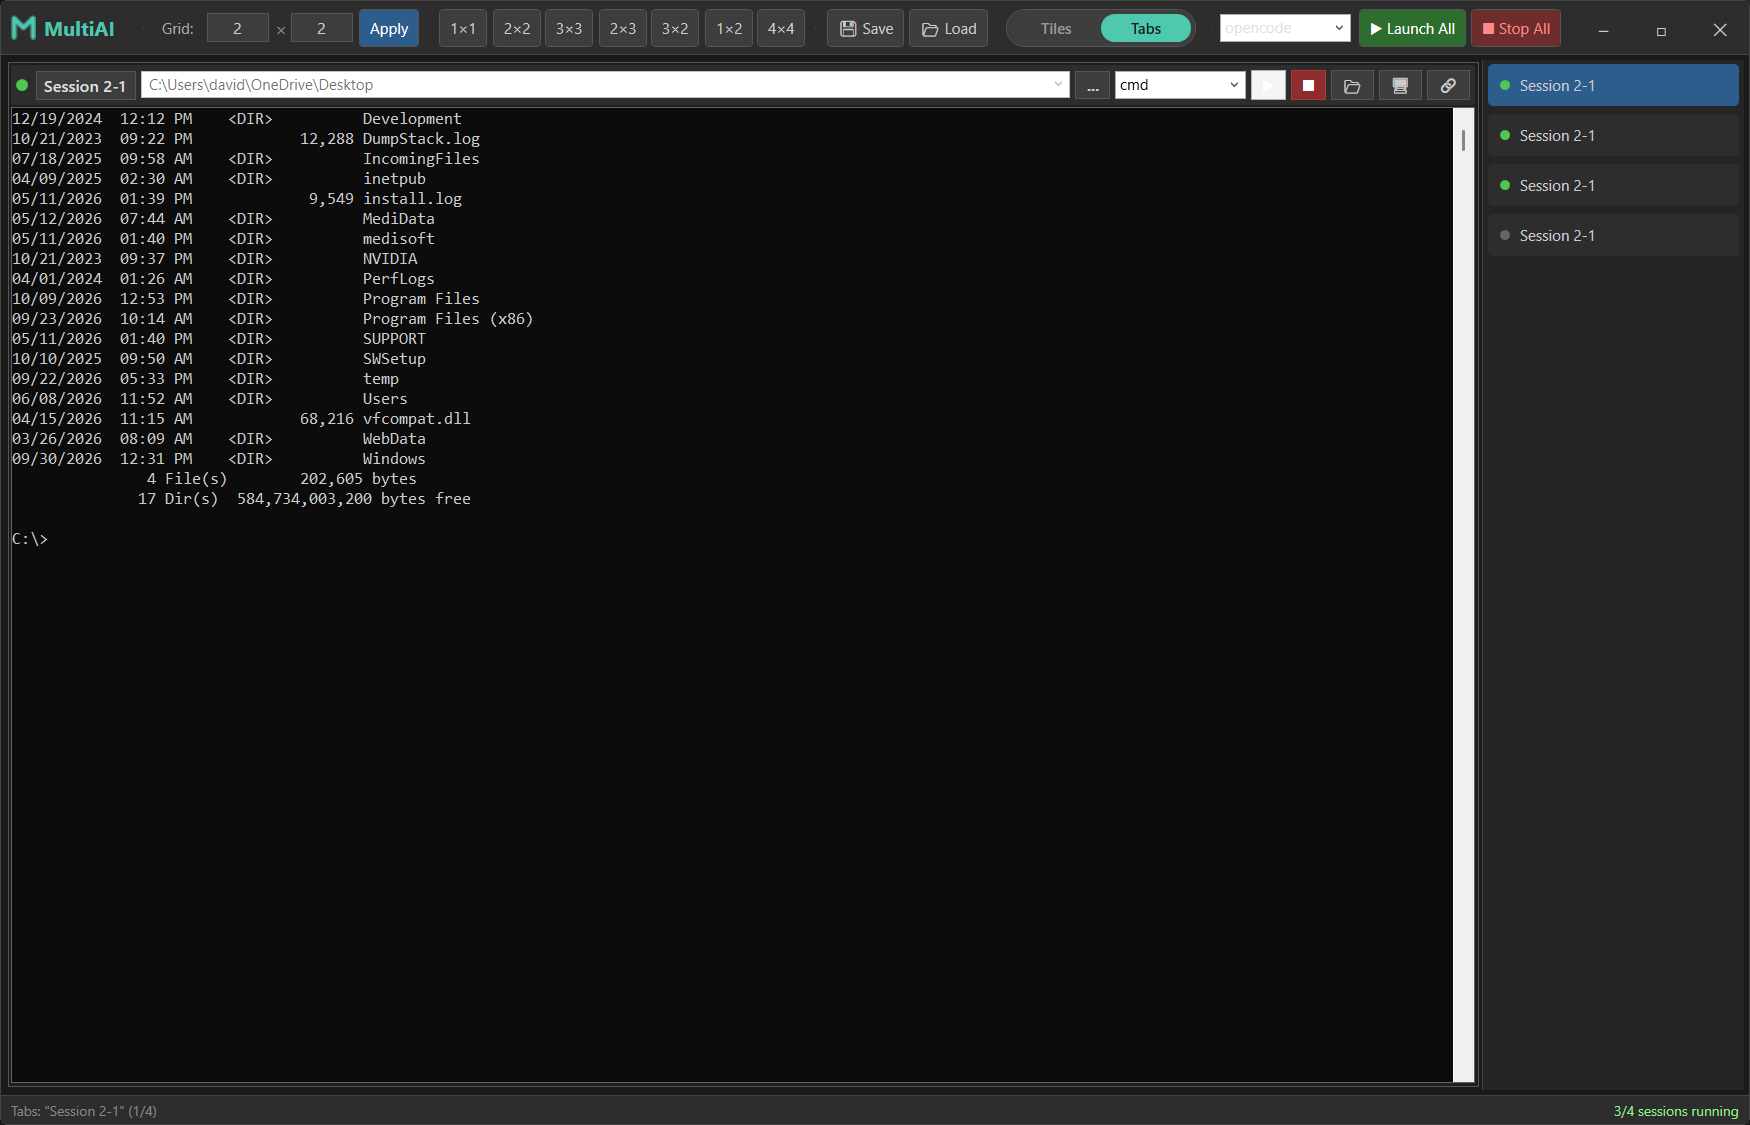
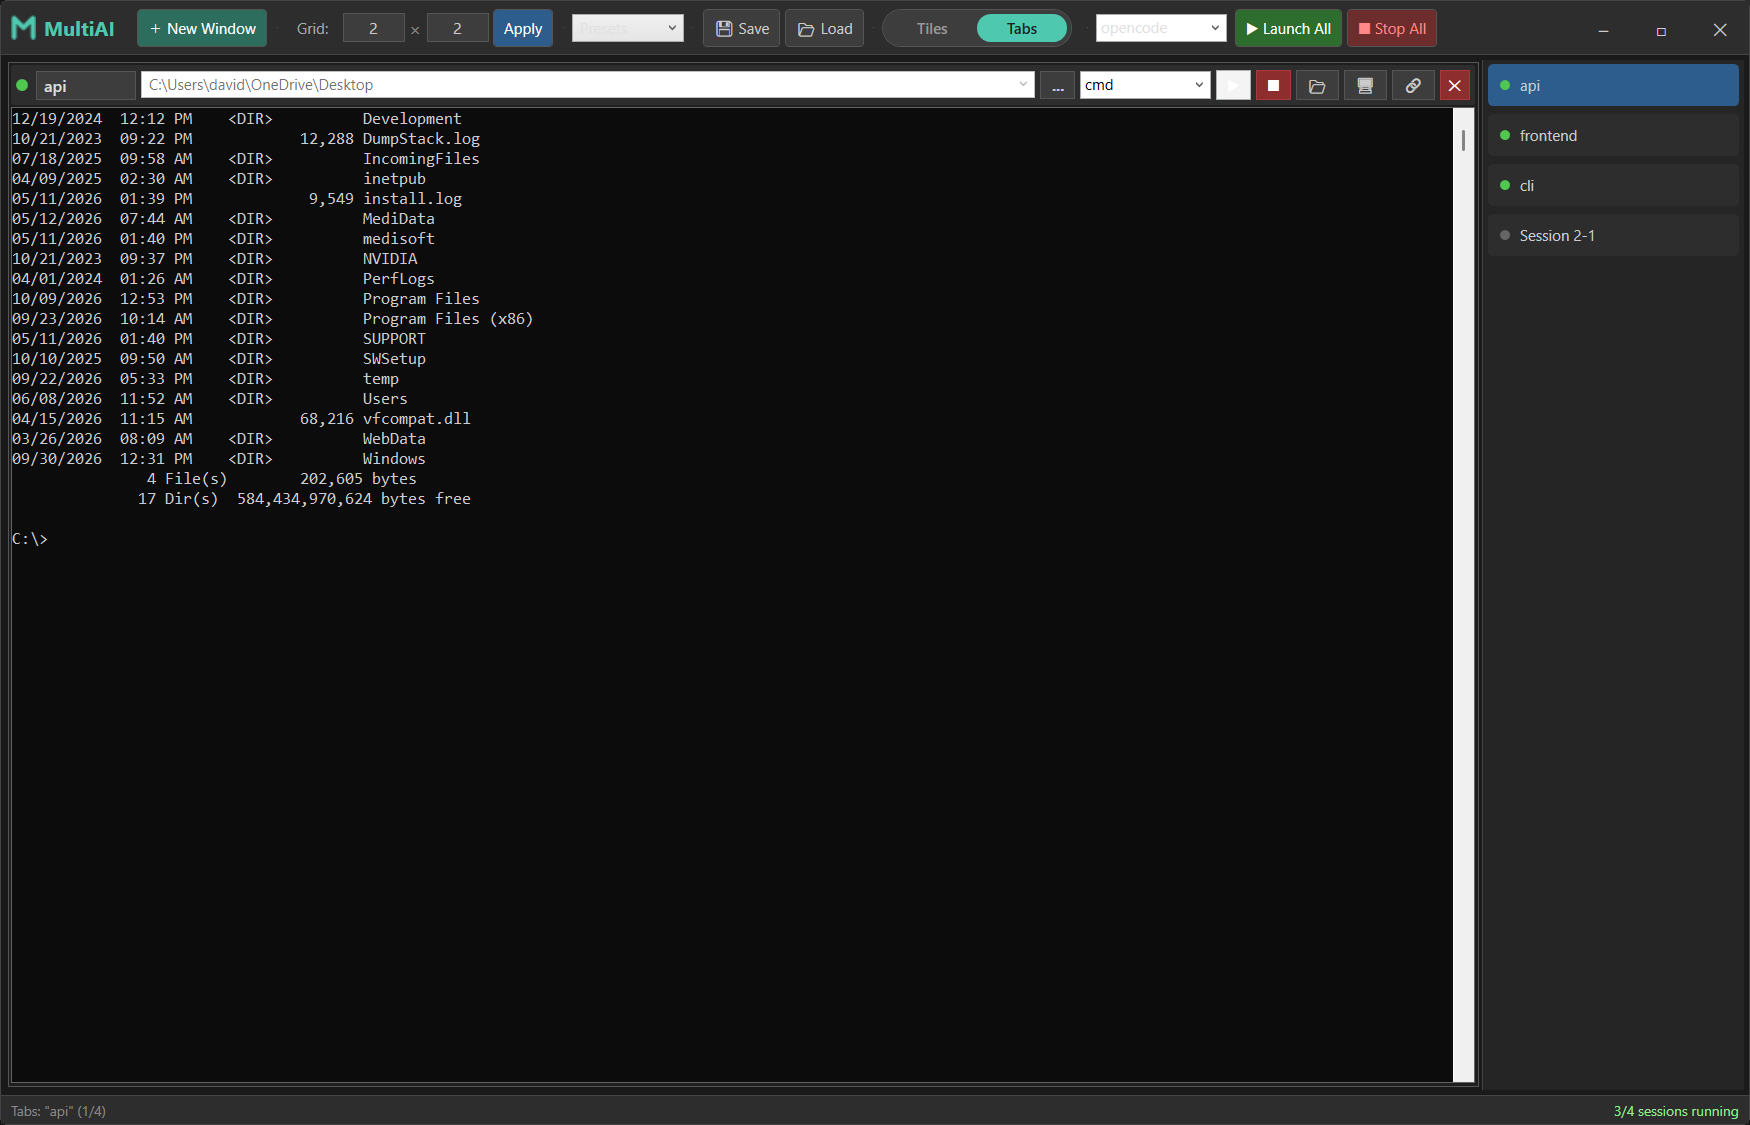
Update README and screenshots for new toolbar and session controls

diff --git a/README.md b/README.md
@@ -20,10 +20,12 @@ Flip the Tiles/Tabs toggle and the same sessions become tabs: one shell fills th
 
 ## Features
 
-- **Session grid** — any layout from 1×1 up to 10×10, with one-click presets (2×2, 3×3, 4×4, …), rebuilt on demand.
-- **Tiles / Tabs toggle** — a sliding pill switch in the toolbar flips between the tile grid and a tabbed view. In Tabs mode a session list sits on the right showing each session's name and status dot; the selected shell fills the main area like a 1×1 tile. Switching views never disturbs running sessions.
+- **Session grid** — any layout from 1×1 up to 10×10 via the grid fields, or pick a preset (1×1 … 4×4) from the **Presets** dropdown.
+- **+ New Window** — add one session per click: windows flow left-to-right, up to 4 per row, so the 5th window sits alone on the second row and the 9th on the third. Windows always share the full window width — closing a session makes the remaining ones expand to fill the row, and vertical scrolling kicks in when the grid outgrows the window. In Tabs mode it appends a new tab.
+- **Tiles / Tabs toggle** — a sliding pill switch in the toolbar flips between the tile grid and a tabbed view. In Tabs mode a session list sits on the right showing each session's name and status dot; the selected shell fills the main area like a 1×1 tile, already sized to fit when you switch. Running sessions keep running in both views.
 - **Embedded consoles** — each session's console is hosted directly inside the app, with click-to-type focus across every console, per-console clipboard paste (Ctrl+V or right-click), and detach-to-window support. Sessions are launched through the classic Windows console host explicitly, so embedding works no matter what your "default terminal application" setting is — including Windows 11 24H2+, where the setting no longer honors the classic host.
 - **Per-session configuration** — session name, working directory (typed, browsed, or picked from a saved-path history), and the agent to run.
+- **Close sessions safely** — every session has a red ✕; closing asks for confirmation, stops the session if it is running, and re-flows the grid so the remaining windows share the full width.
 - **Custom agents** — add any CLI tool as an "agent" (e.g. `python`, `npm run dev`). Names are validated against a strict whitelist (single command tokens, no shell metacharacters) since they are passed to a command line.
 - **Launch All / Stop All** — start every stopped session with one agent selection from the toolbar, or stop everything at once.
 - **Layout persistence** — the grid size, session names, directories, and agent assignments are auto-saved on exit and restored on startup. Saved paths and the agent list persist globally between layouts.
@@ -50,11 +52,12 @@ dotnet publish -c Release -r win-x64 --self-contained
 
 ## Usage
 
-1. Set the grid size in the toolbar (or click a preset) and press **Apply** — or use **Tiles/Tabs** to pick the layout style.
+1. Start from a preset in the **Presets** dropdown, type a grid size and press **Apply**, or grow the grid with **+ New Window**.
 2. In each cell (or via Launch All), pick a working directory and the agent to run.
 3. Press **▶** in a cell to start that session, fill the toolbar agent box and hit **Launch All** to start them all, or **Stop All** to stop everything.
-4. Click any console to type in it; Ctrl+V pastes into the focused console.
-5. Names, paths, and the layout are saved automatically when you close the app.
+4. Flip **Tiles/Tabs** to work in a single full-size shell with a session list on the right.
+5. Click any console to type in it; Ctrl+V pastes into the focused console; the red **✕** closes a session (with confirmation).
+6. Names, paths, and the layout are saved automatically when you close the app.
 
 ## Security notes
 
